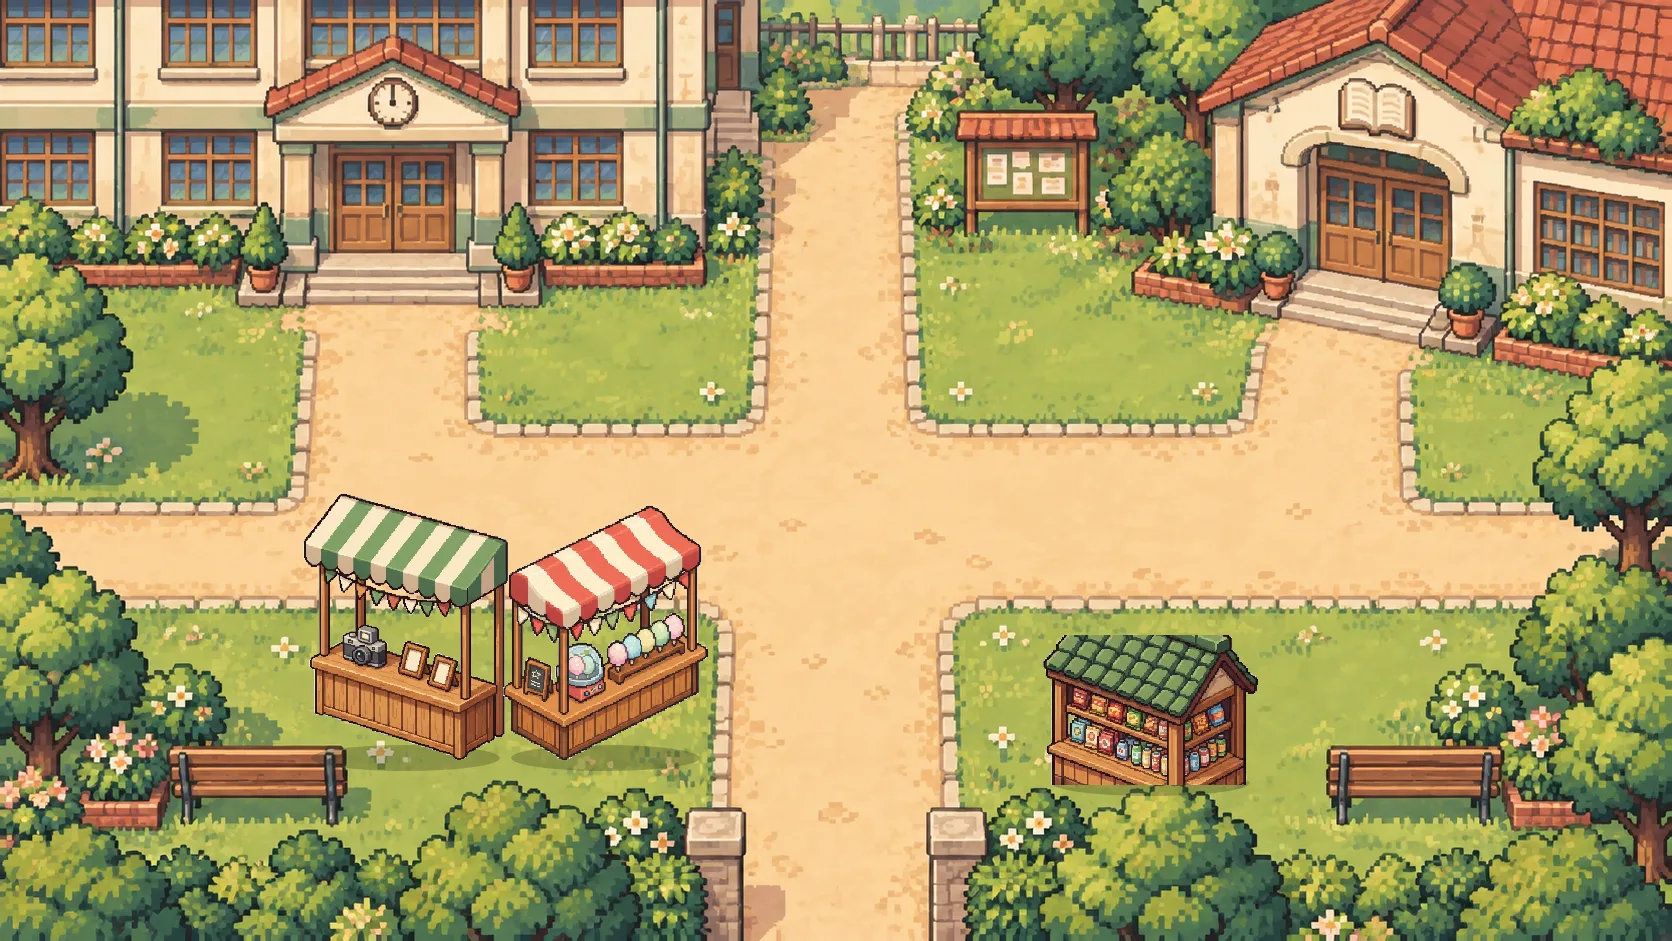
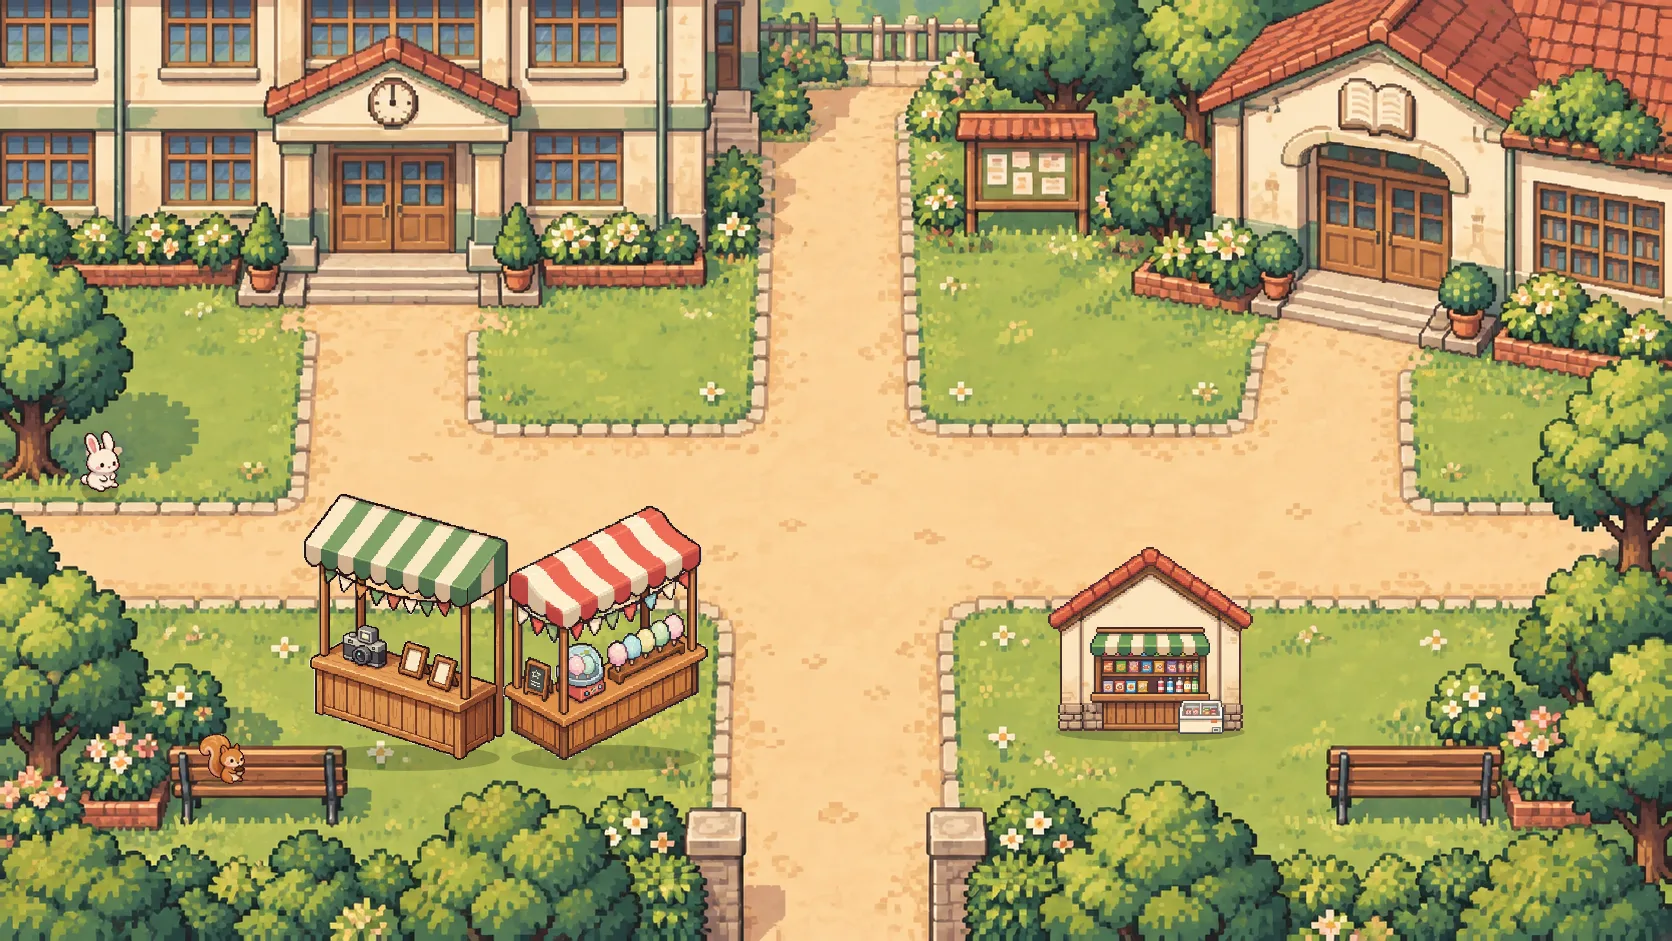
update: 공유한 순간 — 새 매점(정면 시점)·토끼·다람쥐·참새·고양이 구석 배치, 마을 길 칸
원본: heeru-tea/ethicity-games-mid privacy 브랜치 086c450

Changed region(s): [[0.622, 0.5855, 0.7775, 0.8629], [0.0311, 0.4623, 0.0933, 0.5239], [0.1244, 0.7705, 0.1555, 0.8321]]

diff --git a/js/world.js b/js/world.js
@@ -45,7 +45,7 @@
       [0, 5, 3, 5], [0, 10, 2, 7], [29, 6, 3, 8], [30, 14, 2, 4],                 // 나무
       [2, 11, 1, 2], [3, 13, 2, 1], [27, 13, 1, 1], [28, 12, 1, 1],               // 왼쪽 아래 나무 가장자리·꽃덤불, 오른쪽 꽃덤불
       [6, 10, 8, 4],                                                              // 축제 천막 2개(앞 줄 14는 서는 자리)
-      [20, 12, 4, 3],                                                             // 매점 가판대
+      [20, 11, 4, 3],                                                             // 매점(창구는 아래 14줄을 봄)
       [3, 14, 4, 2], [25, 14, 4, 2], [1, 13, 2, 3], [28, 13, 2, 3],               // 벤치·꽃밭
       [0, 15, 14, 3], [18, 15, 14, 3]                                             // 아래 덤불·교문 기둥(가운데 길만 열림)
     ], open: [[6, 4], [7, 4], [8, 4], [25, 4], [26, 4], [27, 4], [15, 1], [16, 1], [17, 1], [15, 2], [16, 2], [17, 2], [15, 3], [16, 3], [17, 3], [15, 4], [16, 4], [17, 4]] },
@@ -86,7 +86,7 @@
     '########..............##..######', // 11 우리 집 현관(24~25, 11)
     '###########...............######', // 12 우리 집 계단(23~25, 12)
     '#############.............######', // 13
-    '#################.#.........####', // 14 벤치(16)·가로등 기둥(18)
+    '#################.#........#####', // 14 벤치(16)·가로등 기둥(18)·고양이(27)
     '######################.....#####', // 15 아래 덤불 앞
     '#######################....#####', // 16
     '#########################..#####'  // 17
@@ -148,7 +148,7 @@
     ob('notice', '게시판', 'yard', 18, 1, 3, 4, '게시판: 솔빛축제 부스 배치도와 일정표가 붙어 있다.', { wall: true }),
     ob('tent1', '레트로 사진관 천막', 'yard', 6, 10, 4, 4, '우리 반 부스 ‘레트로 사진관’. 1컷 500원.'),
     ob('tent2', '옆 반 천막', 'yard', 10, 10, 4, 4, '옆 반 부스. 솜사탕 냄새가 난다.'),
-    ob('store', '학교 매점', 'yard', 20, 12, 4, 3, '매점. 오늘은 컵떡볶이가 제일 잘 팔린다.', {
+    ob('store', '학교 매점', 'yard', 20, 11, 4, 3, '매점. 오늘은 컵떡볶이가 제일 잘 팔린다.', {
       // 날마다 잘 팔리는 간식이 바뀐다(걷기 구간 time의 ' · ' 앞 = 날). 상표 이름은 쓰지 않는다
       looks: {
         'D-4': '매점. 오늘은 컵떡볶이가 제일 잘 팔린다.',
@@ -219,7 +219,7 @@
       cast: [who('saebom', 'classroom', 20, 8, 'down'), who('haneul', 'yard', 19, 8, 'down'), who('minjun', 'yard', 11, 14, 'up')],
       enterLine: '하루 종일 부스를 꾸몄더니 피곤하다. 침대에 눕자 휴대폰이 울렸다.' },
     c2_e4_a: { time: 'D-1 · 오후', mission: '매점 앞에서 손짓하는 하늘이에게 가기', target: { npc: 'haneul' }, spawn: 'gate', tint: 'day',
-      cast: [who('haneul', 'yard', 19, 14, 'left'), who('jiho', 'yard', 8, 14, 'up'),
+      cast: [who('haneul', 'yard', 22, 14, 'left'), who('jiho', 'yard', 8, 14, 'up'),
         who('minjun', 'yard', 11, 14, 'up'), who('saebom', 'classroom', 12, 8, 'down')] },
     c2_e5_a: { time: 'D-1 · 저녁', mission: '집에 가서 부스 안내문 쓰기 — 내 방 컴퓨터', target: { obj: 'mypc' }, spawn: 'road', tint: 'night',
       cast: [who('jiho', 'yard', 8, 14, 'up'), who('minjun', 'yard', 11, 14, 'up')] },
@@ -252,7 +252,7 @@
     room: { name: '내 방', me: P('room', 12, 12, 'down') },
     road: { name: '마을 길', me: P('village', 12, 10, 'right') },
     gate: { name: '교문', me: P('yard', 15, 15, 'up') },
-    store: { name: '매점 앞', me: P('yard', 18, 14, 'right') },
+    store: { name: '매점 앞', me: P('yard', 21, 14, 'right') }, // 매점 창구 바로 앞
     library: { name: '도서관', me: P('library', 26, 7, 'up') },
     hall: { name: '현관 앞', me: P('yard', 7, 7, 'right') }, // 복도는 없앴다(설계 결정) — 현관 앞에서
     booth: { name: '마당 축제 부스', me: P('yard', 14, 13, 'right') }
@@ -282,7 +282,7 @@
       bubbles: [{ on: '역할 바꿨어', who: 'jiho', text: '😌' }] },
     c1_e3_cap: { place: 'classroom', tint: 'day', card: 'D-1 점심 · 교실', cast: only(classmates, ['saebom', 'jiho', 'haneul']),
       bubbles: [{ on: '…화나. 아무한테도', who: 'jiho', text: '💢' }] },
-    c2_e4_a: { place: 'store', tint: 'evening', cast: [who('haneul', 'yard', 19, 14, 'left')],
+    c2_e4_a: { place: 'store', tint: 'evening', cast: [who('haneul', 'yard', 22, 14, 'left')],
       bubbles: [{ on: '누가 만든 거래', who: 'haneul', text: '이거 봐 ㅋㅋ' }, { on: '나 보낸 거 지울게', who: 'haneul', text: '…' }] },
     c2_e4_b: { place: 'road', tint: 'evening', card: '그날 저녁 · 집에 가는 길', cast: [] },
     c2_e5_a: { place: 'room', tint: 'night', me: ATDESK, pcOn: true, cast: [] },
